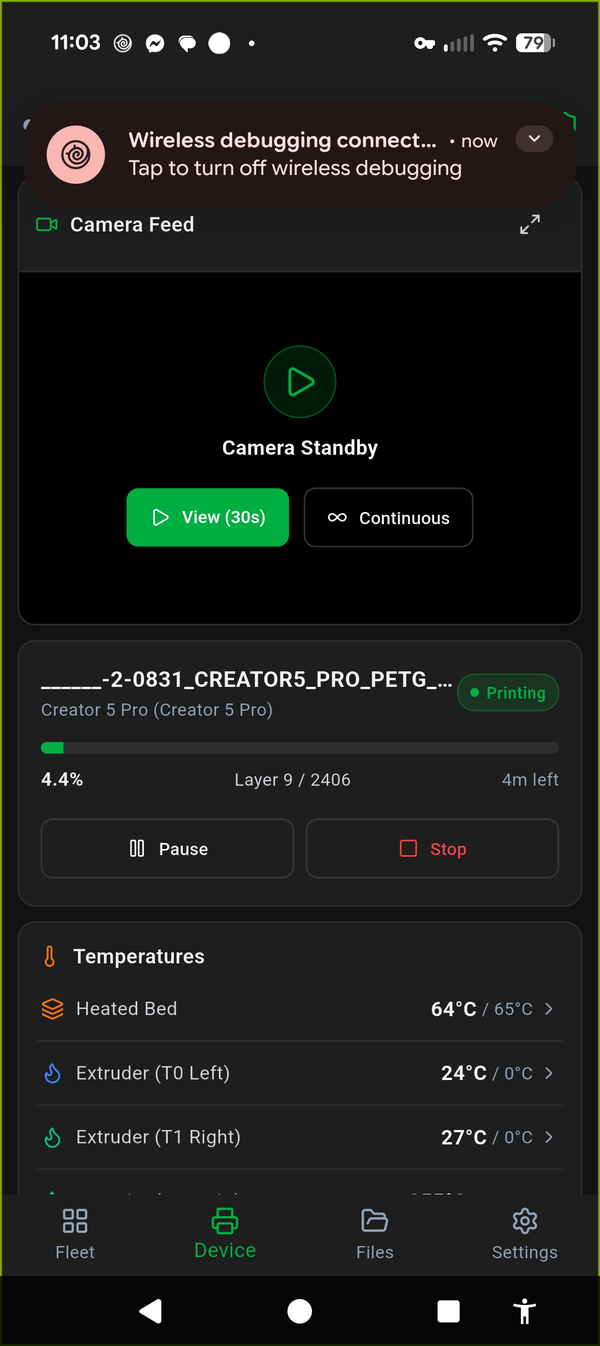
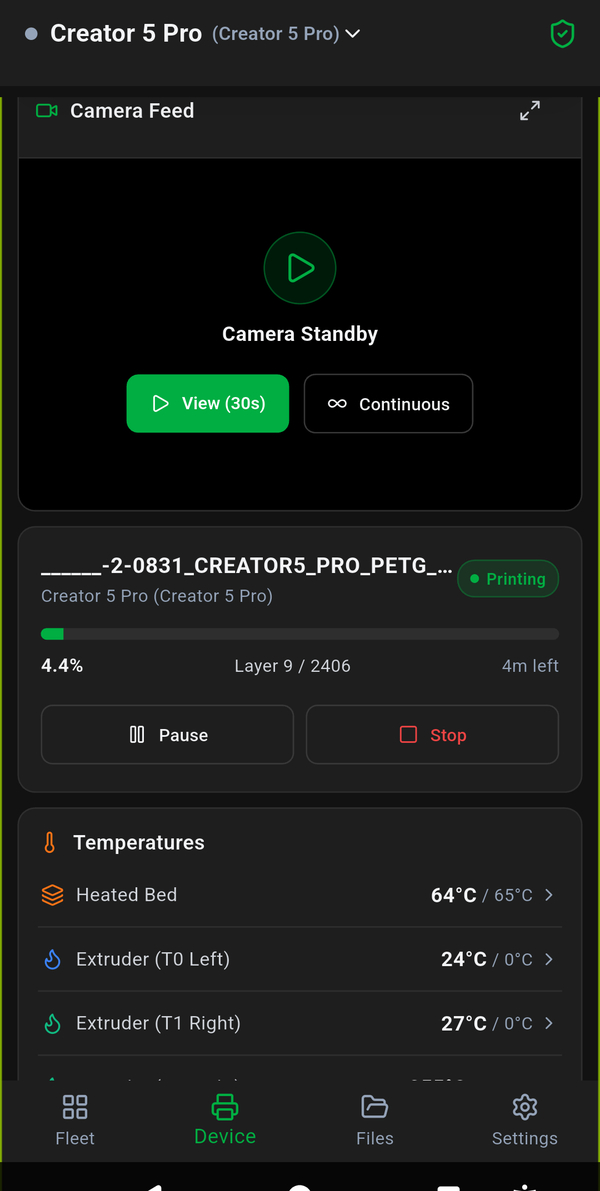
docs: showcase both WebUI and Mobile App screenshots with clean status bars

diff --git a/README.md b/README.md
@@ -13,9 +13,7 @@
 <br />
 
 <p align="center">
-  <img src="docs/screenshots/fleet_overview.png" width="45%" alt="YourPrinter Fleet Dashboard" />
-  &nbsp;&nbsp;
-  <img src="docs/screenshots/device_dashboard.png" width="45%" alt="YourPrinter Device Controls" />
+  <img src="docs/screenshots/webui_dashboard.png" width="100%" alt="YourPrinter Web Dashboard" />
 </p>
 
 </div>
@@ -28,44 +26,54 @@ YourPrinter connects directly to your 3D printers over your local network — no
 
 ## Key Features
 
-### 🖥 Multi-Printer Fleet Dashboard
-Monitor your entire print farm from a single screen. Track live progress, remaining print time, layer heights, and temperatures across all connected machines in real time.
-- Direct printer status cards with active job tracking
-- Seamless switching between individual device dashboards
+### 🖥 Desktop Web Dashboard
+Monitor and control your entire print farm from any modern desktop browser.
+- **Fleet Overview**: Live multi-camera grid, active print progress, remaining time, layer counters, and temperatures across all connected machines.
+- **Device Controls**: Real-time camera streaming, interactive temperature setpoints, part cooling fan sliders, print speed presets, and chamber air filtration modes.
+- **Multi-Material Management**: Direct monitoring of filament slots, active toolhead extruders, material types, and per-head temperatures.
 
-### 📹 Low-Latency Live Camera Streaming
-Powered by an embedded [go2rtc](https://github.com/AlexxIT/go2rtc) streaming gateway.
-- Sub-second WebRTC and MJPEG streams directly from printer cameras
-- Multi-camera fleet view with simultaneous live video
-- Automatic snapshot fallback for slower or intermittent network connections
-
-### 🎨 Multi-Material & Multi-Toolhead Controls
 <p align="center">
-  <img src="docs/screenshots/multi_material.png" width="45%" alt="Multi-Material Management" />
-  &nbsp;&nbsp;
-  <img src="docs/screenshots/motion_controls.png" width="45%" alt="Manual Motion and Fan Controls" />
+  <img src="docs/screenshots/webui_fleet.png" width="100%" alt="YourPrinter Fleet Dashboard" />
 </p>
 
-First-class support for multi-color and multi-extruder hardware:
-- **Bambu Lab AMS Lite**: 4-slot filament status, active slot selection, and material tracking.
-- **FlashForge Creator 5 / 5 Pro**: Independent multi-head toolhead monitoring (Heads 1–4) with per-nozzle temperatures and IFS filament slots.
-- **Manual Control**: Interactive motion jog pad, custom extrusion lengths, part cooling fan sliders, and chamber lighting toggles.
+---
+
+### 📱 Native Mobile Companion
+A Flutter-based Android and iOS companion app with full feature parity for monitoring your printers on the go.
+
+<div align="center">
+
+| Fleet Overview | Device Telemetry | Multi-Material & IFS | Motion & Jog Controls |
+| :---: | :---: | :---: | :---: |
+| <img src="docs/screenshots/app_fleet.png" width="230" alt="Mobile Fleet Overview" /> | <img src="docs/screenshots/app_device.png" width="230" alt="Mobile Device Telemetry" /> | <img src="docs/screenshots/app_material.png" width="230" alt="Multi-Material IFS" /> | <img src="docs/screenshots/app_controls.png" width="230" alt="Mobile Motion Controls" /> |
+
+</div>
+
+- **Instant Fleet Status**: At-a-glance status cards with live camera streaming and single-tap switching between printers.
+- **Toolhead & Material Monitoring**: Multi-extruder telemetry for FlashForge Creator 5 / 5 Pro IFS systems and Bambu Lab AMS Lite.
+- **Manual Motion Controls**: Touch-friendly XY jog d-pad, Z-axis jogging, home all axes, and custom step increments (0.1mm to 50mm).
+- **Direct APK Downloads**: Available for Android under [Releases](https://github.com/christianborges121/YourPrinter/releases).
+
+---
 
 ### 🧠 On-Prem AI Print Failure Watchdog
+Catch spaghetti and print failures before wasting hours of print time and filament.
+
 <p align="center">
-  <img src="docs/screenshots/ai_watchdog.png" width="55%" alt="AI Failure Watchdog Alert" />
+  <img src="docs/screenshots/app_watchdog.png" width="55%" alt="AI Failure Watchdog Alert" />
 </p>
 
-Catch spaghetti and print failures before wasting hours of print time and filament:
 - Integrated Obico (YOLO/Darknet) visual failure detection running 100% locally on your GPU
 - Automatic print pausing when failure confidence exceeds your custom threshold
 - Push notifications and Discord webhook alerts with captured failure frames
 
-### 📱 Native Mobile Companion
-A Flutter-based Android and iOS mobile app with full feature parity:
-- Low-latency camera feeds and fleet monitoring on the go
-- Local notifications when prints finish or failures are detected
-- Direct APK downloads available under [Releases](https://github.com/christianborges121/YourPrinter/releases)
+---
+
+### 📹 Low-Latency Live Camera Streaming
+Powered by an embedded [go2rtc](https://github.com/AlexxIT/go2rtc) streaming gateway:
+- Sub-second WebRTC and MJPEG streams directly from printer cameras
+- Multi-camera fleet view with simultaneous live video
+- Automatic snapshot fallback for slower or intermittent network connections
 
 ---
 
